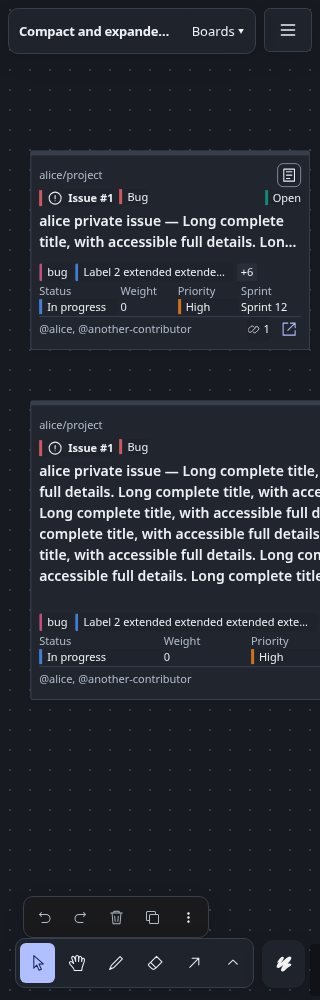
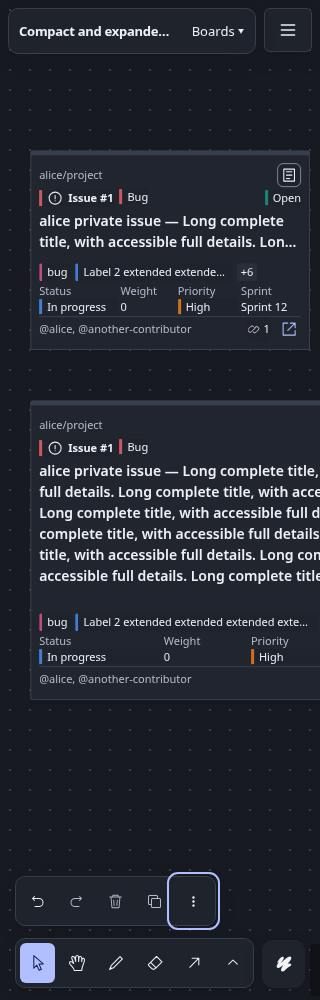
docs: refresh toolbar screenshots and verification evidence

diff --git a/.scratch/canvas-control-card-polish/review.md b/.scratch/canvas-control-card-polish/review.md
@@ -24,7 +24,7 @@ Reviewed the bottom-left native controls, compact/minimum-size/expanded issue an
 | LOW | Layout | `src/client/workspace/NativeWorkspace.tsx:56` | Independently positioned navigation and action controls, with helper margins affecting alignment | Shared layout using existing tldraw components | Common baseline, room for an expanded minimap, stacked controls at narrow widths |
 | LOW | UI polish | `src/client/desktop.css:19`, `src/client/AuthLanding.tsx:24`, `src/client/workspace/workspace.css:57` | Programmatic heading focus draws a selection-like outline; tldraw autofocus can draw a viewport-sized border | Suppress only the noninteractive route-heading outline and gate canvas outlines on keyboard input, captured before native event handlers | Preserve native autofocus, heading announcements and actual keyboard focus indicators without startup borders |
 
-No actionable interface findings remain in the inspected scope.
+The initial review missed the narrow action strip: tldraw relocates it to a different container on mobile. The follow-up below supersedes the original control-polish assessment.
 
 ## Verification
 
@@ -45,4 +45,24 @@ Not verified: a screen-reader session, RTL/pseudo-localization, browser page zoo
 
 ## Verdict
 
-Approve for the inspected interface scope. The final integration gate passed. The compact title tradeoff is recorded in `spec.md`: two whole lines at the default size, one at the minimum size, with full titles available through details.
+Original verdict: approve for the inspected interface scope. That gate passed, but its surface assertions missed the relocated mobile action strip; see the follow-up below. The compact title tradeoff is recorded in `spec.md`: two whole lines at the default size, one at the minimum size, with full titles available through details.
+
+## Follow-up: relocated mobile actions
+
+Scope: bottom action and drawing toolbars at 640, 390 and 320px in both themes, with desktop/minimap regression coverage. The user's 320px screenshot showed a real inconsistency that the earlier review overlooked.
+
+| Severity | Domain | Location | Before | After | Why |
+| --- | --- | --- | --- | --- | --- |
+| MEDIUM | UI polish / layout | `src/client/chrome.css:108` | At narrow widths, tldraw relocates actions outside the menu zone. The relocated strip retained its low-surface background, 40px buttons, an 8px left inset and native offsets that made it touch the drawing toolbar. | Style both action placements with the panel surface and native drawing-button dimensions. Remove the extra inset and offset; reserve 12px between mobile rows, hide the empty menu spacer and align zoom with Actions. | Matching surface, 50px outer height, shared leading edge and first icon centre, and clear separation. |
+
+All six owning better-interface skills were applied to this bounded follow-up. Accessibility: native controls retained; keyboard opening/dismissal of Actions and pointer hit testing at each narrow width. Layout: compare actual toolbar rectangles and icon centres; retain the existing desktop/minimap and enlarged-text checks. Writing and typography: native labels/tooltips and font styles retained. Color: actual action/drawing surface equality in both themes. UI polish: inspect generated light/dark narrow and desktop screenshots, in addition to the measurements.
+
+The new regression failed against the original implementation: the action background was `rgb(237, 240, 242)` while the drawing toolbar was `rgb(255, 255, 255)`. After the correction, all six focused card/chrome browser tests passed. Reviewed implementation commit: `811e66b` (`fix(canvas): match mobile actions to native toolbar chrome`). The production gate result is recorded below.
+
+The earlier limitations (screen-reader session, RTL/pseudo-localization and actual browser page zoom) still apply; this follow-up does not claim those checks.
+
+Screenshot evidence uses the dedicated narrow-action regression, which measures and hit-tests Actions itself after native responsive relocation. The 320px light and dark images retain the keyboard focus ring on Actions after testing menu dismissal; that ring is intentional. The 640px light image shows the zoom and action baseline. Desktop light/dark images were refreshed from the production run as well.
+
+Final validation of `811e66b`: `pnpm gate` passed on Node 26.8.1 / pnpm 12.16.1, including lint, type checks, 14 native-document tests, 4 server tests, the production build and **106 browser tests**, with one configuration-specific skip. The browser run also passed native history/interaction continuity and 320px/200% text checks. Log: `/tmp/gitbored-controls-final-gate.log`. `git diff --check` passed.
+
+Follow-up verdict: **Approve** for the inspected toolbar scope. Screenshots and measured surfaces/rectangles agree; no outstanding findings in that scope. The stated unverified accessibility/localization states remain unverified.

diff --git a/.scratch/canvas-control-card-polish/spec.md b/.scratch/canvas-control-card-polish/spec.md
@@ -12,3 +12,7 @@
 ## Scope
 
 React + tldraw and existing semantic CSS tokens. No new dependencies. Applies to bottom-left canvas controls, card metadata and its existing details presentation.
+
+## Follow-up: mobile action toolbar
+
+The 320px PR screenshot exposed a missed responsive state: tldraw relocates the action shortcuts from the menu zone to `tlui-main-toolbar__extras__controls`. Match that container to the drawing toolbar too. Both placements use the panel token and native row/button sizing; the mobile rows share a leading edge and icon centre, have equal heights, and have 12px of canvas between them. Preserve native toolbar relocation, keyboard navigation and menu behavior. Replace the PR's mobile evidence with light and dark screenshots of the corrected state.
